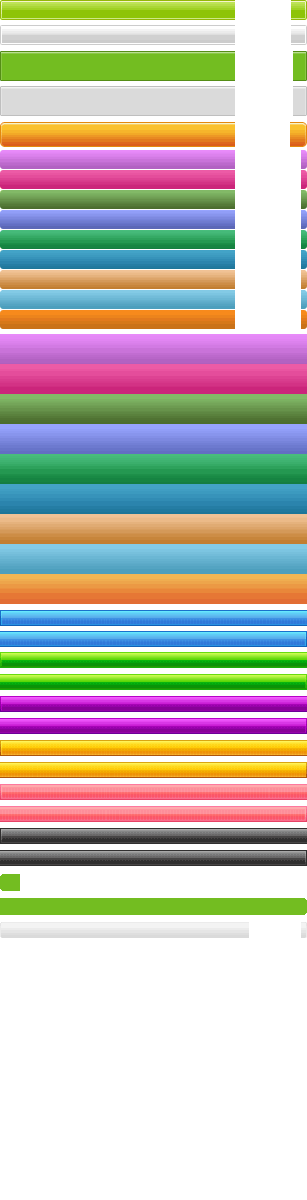
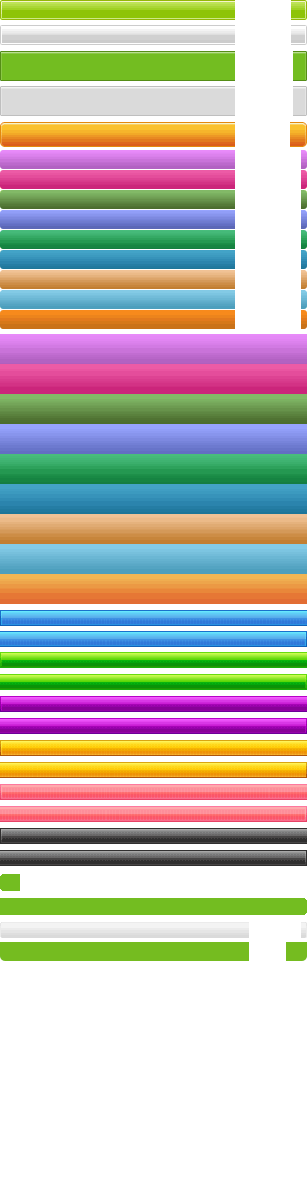
update skin_theme: add a button

Changed region(s): [[0.0, 0.7708, 0.8208, 0.8017], [0.9088, 0.7708, 1.0, 0.8017]]

diff --git a/public/stylesheets/home.css b/public/stylesheets/home.css
@@ -160,7 +160,7 @@ a:hover{color:#D63200;}
 .feed-list .word-box,.feed-list .comment-box{margin-top:4px;}
 
 .feed-list .info-box{padding:0 8px;}
-.feed-list .word-box{padding:7px;line-height:18px;position:relative}
+.feed-list .word-box{padding:7px;line-height:18px;position:relative;width:385px}
 .feed-list .word-box .icon-active{position:absolute;right:0;top:0}
 .feed-list .word-box .img{float:left;margin:4px 0;width:27px;text-align:center;overflow:hidden;position:relative}
 .feed-list .word-box .word{margin-left:48px;_margin-left:45px;}
@@ -170,7 +170,7 @@ a:hover{color:#D63200;}
 .feed-list .comment-box textarea,.feed-list .word-box .textarea{width:270px;}
 .feed-list .comment-box .txt-add-comment,.feed-list .word-box .txt-add-comment{padding:5px;width:260px;height:13px;overflow:hidden}
 
-.feed-list .comment-box{padding:7px 8px;}
+.feed-list .comment-box{padding:7px 8px;width:383px}
 .feed-list .comment-box .rows,.feed-list .word-box .rows{padding-bottom:5px;}
 .feed-list .comment-box .buttons .button,.feed-list .word-box .buttons .button{float:right;margin-left:1px;margin-right:4px;}
 .feed-list .comment-box .formcontent,.feed-list .word-box .formcontent{padding:3px 0;line-height:13px;}
@@ -182,12 +182,12 @@ a:hover{color:#D63200;}
 
 #comments .feed-img-list{border-top:1px #E7F0E0 solid;}
 .feed-img-list{padding:11px 10px 0 19px}
-.feed-img-list .feed-list{margin-top:10px;padding-left:76px;_height:60px;min-height:60px;position:relative;color:#7E7F80}
+.feed-img-list .feed-list{margin-top:10px;padding-left:72px;_height:60px;min-height:60px;position:relative;color:#7E7F80}
 .feed-img-list .feed-list .feed-img{position:absolute;left:0;top:0;width:60px;height:60px;text-align:center;overflow:hidden}
 .feed-img-list .feed-list .feed-header{padding:8px 13px;border-top:1px #BBD2AA solid;background:#F8FCF6}
 .feed-img-list .feed-list .feed-header p{word-spacing:5px;}
 .feed-img-list .feed-list .feeds{padding:8px 10px;border-top:1px #E7F0E0 solid;word-spacing:5px;}
-.feed-list-box .cmt-box,.feed-img-list .cmt-box{margin-bottom:10px;width:385px;}
+.feed-list-box .cmt-box,.feed-img-list .cmt-box{margin-bottom:10px;width:383px;}
 
 .feed-box01{padding-left:27px;line-height:21px;}
 .feed-box01 .page{margin-bottom:15px;line-height:18px;color:#7E7F80}
@@ -287,7 +287,7 @@ a:hover{color:#D63200;}
 .appcontent06{padding:9px 7px}
 
 .piclist{clear:both;}
-.piclist .picitem{_display:inline;float:left;padding:7px 14px 7px 15px;width:149px;height:192px;overflow:hidden;text-align:center;line-height:24px;}
+.piclist .picitem{_display:inline;float:left;padding:7px 14px 7px 15px;width:149px;/*height:192px;*/overflow:hidden;text-align:center;line-height:24px;}
 .piclist .picitem .picbox01{margin:0 auto;}
 .piclist .picitem b,.piclist-box .picitem .link{color:#25700D}
 .piclist .picitem span{color:#D63200}
@@ -648,7 +648,7 @@ a.icon-face{background:url(../images/icons/face-icon.gif) no-repeat;width:16px;h
 .roll-left,.roll-right{float:left;background:url(../images/skin/skin2010.png) no-repeat -102px -446px;width:22px;height:22px;display:block;margin-top:55px}
 .roll-right{background-position:-124px -446px}
 
-.jl-read-more{text-align:center;margin:10px 20px;font-weight:700}
+.jl-read-more{text-align:center;margin:10px 0;font-weight:700}
 span.jl-my-gold{background:url(../images/icons/homeIcons.png) no-repeat 0 -704px;padding-left:20px;margin-right:20px}
 a.jl-get-salary:link,a.jl-get-salary:visited,a.jl-get-salary:active{text-align:center;width:85px;height:18px;line-height:18px;background:url(../images/skin/skin2010.png) no-repeat -115px -372px;display:inline-block;color:#fff}
 
@@ -797,7 +797,7 @@ a.impress-btn-8,a.impress-8:hover{background-position:0 -574px;color:#fff;}
 .impress-add a,.impress-show a{margin:0 1px 1px 0;}
 .impress-add a:hover{color:#fff;}
 .impress-show a,.impress-show a:hover{font-weight:700;height:28px;line-height:27px;float:left;display:block;padding:0 5px;overflow:hidden;text-align:center;word-break:keep-all;white-space:nowrap}
-.impress-show a b.icon2-close{background-position:0 -16px;visibility:hidden;display:inline-block;margin:-1px 0 0 0;_margin:5px 0 0 0}
+.impress-show a b.icon2-close{background-position:0 -752px;visibility:hidden;display:inline-block;margin:-1px 0 0 0;_margin:5px 0 0 0}
 .impress-show a:hover b.icon2-close{ visibility:visible;background-color:transparent}
 
 .i-show02 a{display:block;float:left;}
@@ -1012,7 +1012,7 @@ h1.app-share{float:left}
 #w-nav #cmt{height:42px;position:relative;display:inline-block;}
 
 #navbar #navmain #w-nav .drop-box .cmt-box .con{padding:0}
-#w-nav .feed-list{background:#fff;padding:5px;width:410px}
+#w-nav .feed-list{background:#fff;padding:5px;width:420px}
 #w-nav .feed-list .word{color:#333}
 #w-nav .feed-list img{border:0;padding:0;margin:0}
 
@@ -1042,7 +1042,7 @@ h1.app-share{float:left}
 .z-box .z-con .textfield{width:200px;}
 .z-box .z-con textarea{width:200px;height:50px}
 .z-box .z-con .formcontent .fldid{width:85px}
-.z-box .z-con p{padding:20px;min-height:50px}
+.z-box .z-con p{padding:20px;/*min-height:50px*/}
 .z-box .z-submit{background:#f0f5ec;border-top:1px solid #d4e3c9;padding:15px 0;}
 .z-box .z-submit .buttons{text-align:center}
 .z-box .z-submit .button{margin:0 5px;float:none;display:inline-block}
@@ -1093,7 +1093,7 @@ h1.app-share{float:left}
 .app-set .enter{position: absolute;right:20px;top:20px;border-top:1px solid #bdd6ad;padding:20px;width:100px}
 
 /*提示信息*/
-.notice-msg,.warning-msg,.error-msg{padding:20px;color:#333;font-size:14px;}
+.notice-msg,.warning-msg,.error-msg{padding:20px;color:#333;font-size:14px;margin-bottom:5px}
 .notice-msg{background:#b7e1bd}
 .error-msg{background:#fcb08b}
 .warning-msg{background:#f9ec93}
@@ -1115,7 +1115,12 @@ h1.app-share{float:left}
 
 .theme-head{width:100%;background:#fff;padding-bottom:10px;border-top:5px solid #75bc20;border-bottom:1px solid #ccc;}
 .theme-head .wrap{width:950px;margin:0 auto;position:relative;}
-.theme-center,.theme-center:hover{width:97px;height:19px;line-height:19px;display:block;text-align:center;color:#fff;position:absolute;right:20px;top:0;background:url(../images/skin/skin2010.png) no-repeat 0 -448px}
+
+.theme-center{background:url(../images/skin/btn2010.png) no-repeat 0 -942px;padding:0 0 0 10px;text-align:center;width:150px;height:19px;position:absolute;right:20px;top:0;}
+.theme-center div{padding:0 10px 0 0;background:url(../images/skin/btn2010.png) no-repeat right -942px;height:19px}
+.theme-center a,.theme-center a:hover{line-height:19px;color:#fff;}
+.theme-center a span{width:4px;height:7px;font-size:0;line-height:0;display:inline-block;margin-left:5px;_vertical-align:middle;background:url(../images/skin/skin2010.png) no-repeat -178px -73px}
+
 
 .theme-preview {padding:30px 0 10px 0;width:900px;margin:0 auto;}
 .theme-preview .btn{width:19px;height:53px;display:block;float:left;background:url(../images/skin/skin2010.png) no-repeat -108px -391px;margin-top:30px}
